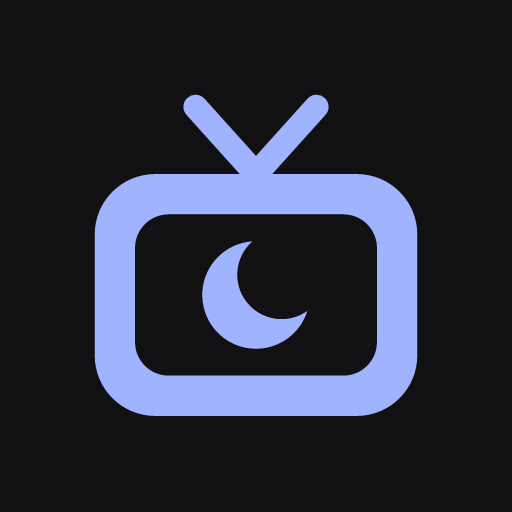
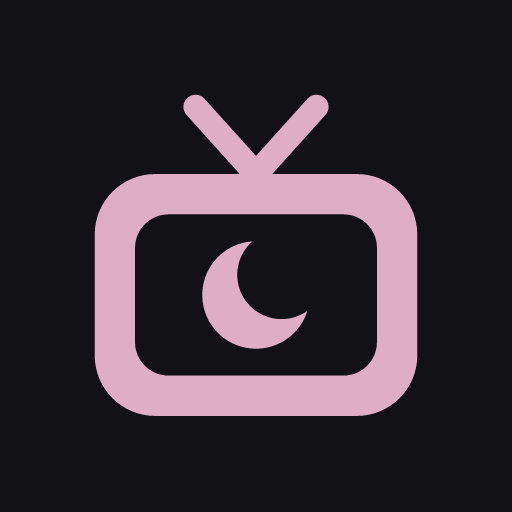
feat: アイコンを紫がかった灰色とくすみピンクにする
背景を night-850、テレビと月の図形を fg-accent の明るいピンクにして、アプリの新しい配色にそろえる。

Changed region(s): [[0.1875, 0.1875, 0.8125, 0.8125], [0.375, 0.4688, 0.5938, 0.6875]]

diff --git a/frontend/scripts/icons.ts b/frontend/scripts/icons.ts
@@ -2,8 +2,8 @@ import { writeFileSync } from "node:fs";
 
 import { Resvg } from "@resvg/resvg-js";
 
-const night = "#111113";
-const moon = "#a0b3fe";
+const night = "#121116";
+const moon = "#dfadc4";
 
 const glyph = [
 	`<path d="M11.5 4.5 16 9.5l4.5-5" fill="none" stroke="${moon}" stroke-width="1.8" stroke-linecap="round" stroke-linejoin="round"/>`,
